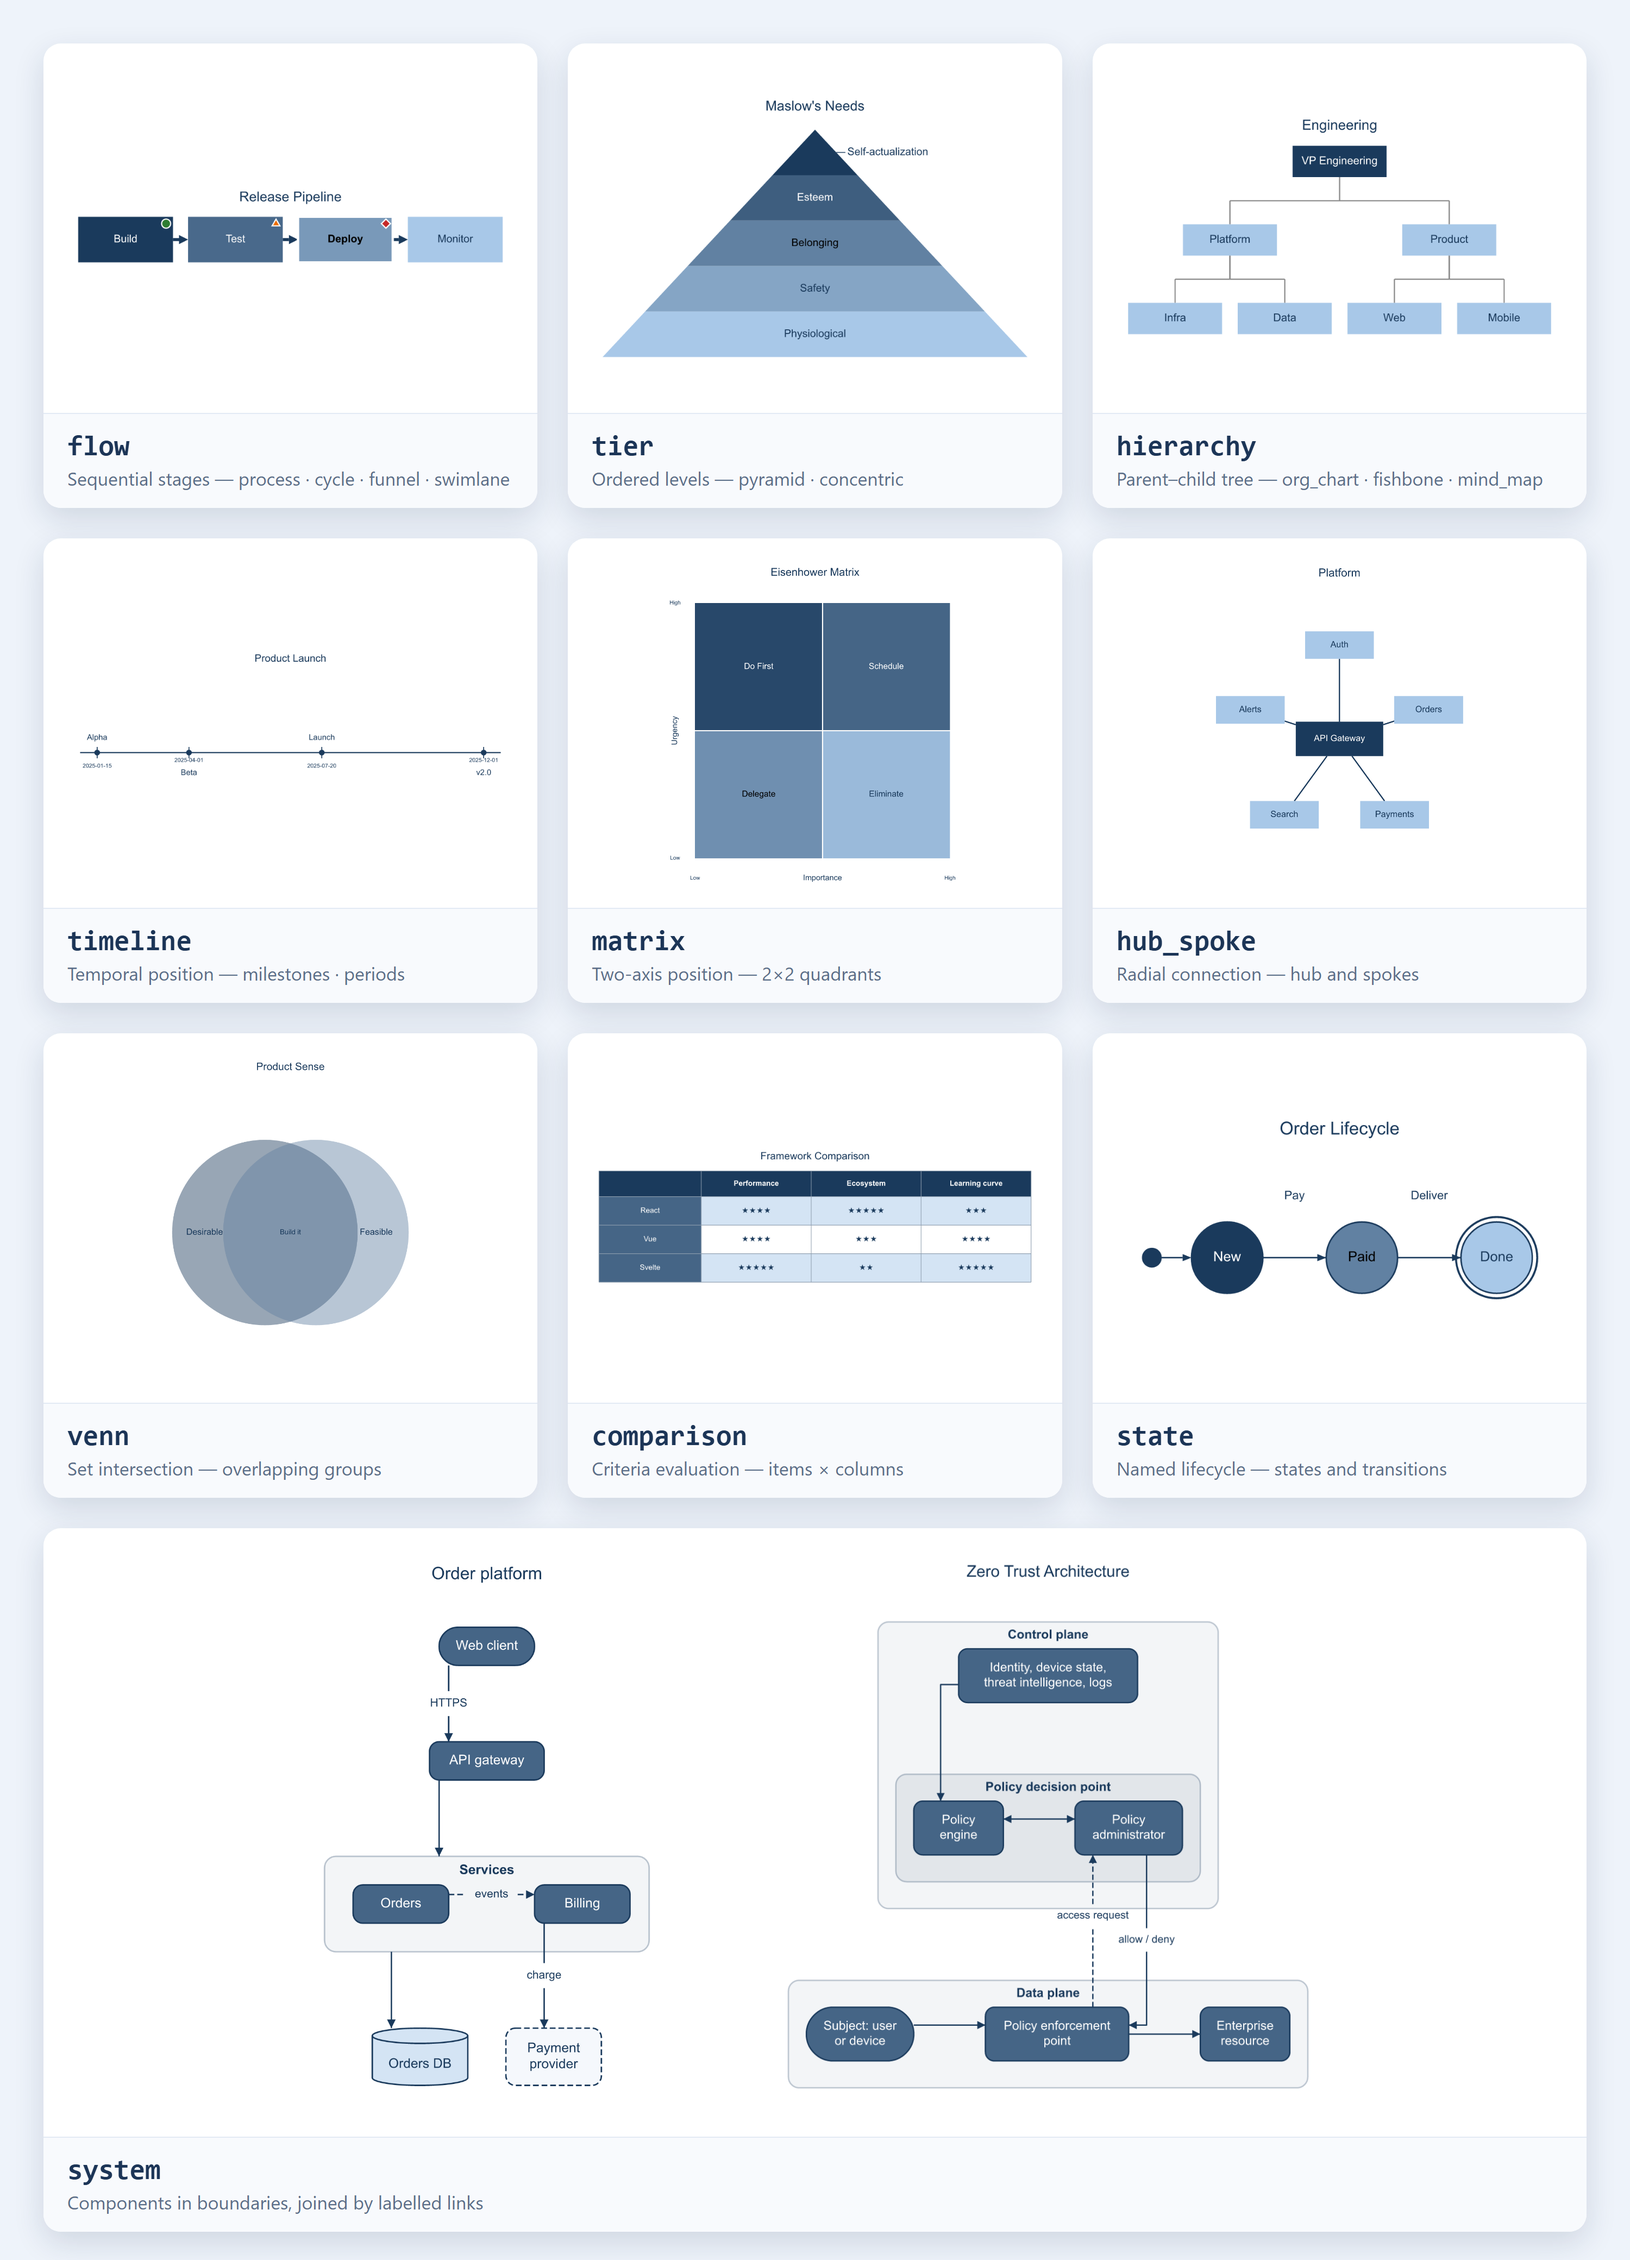
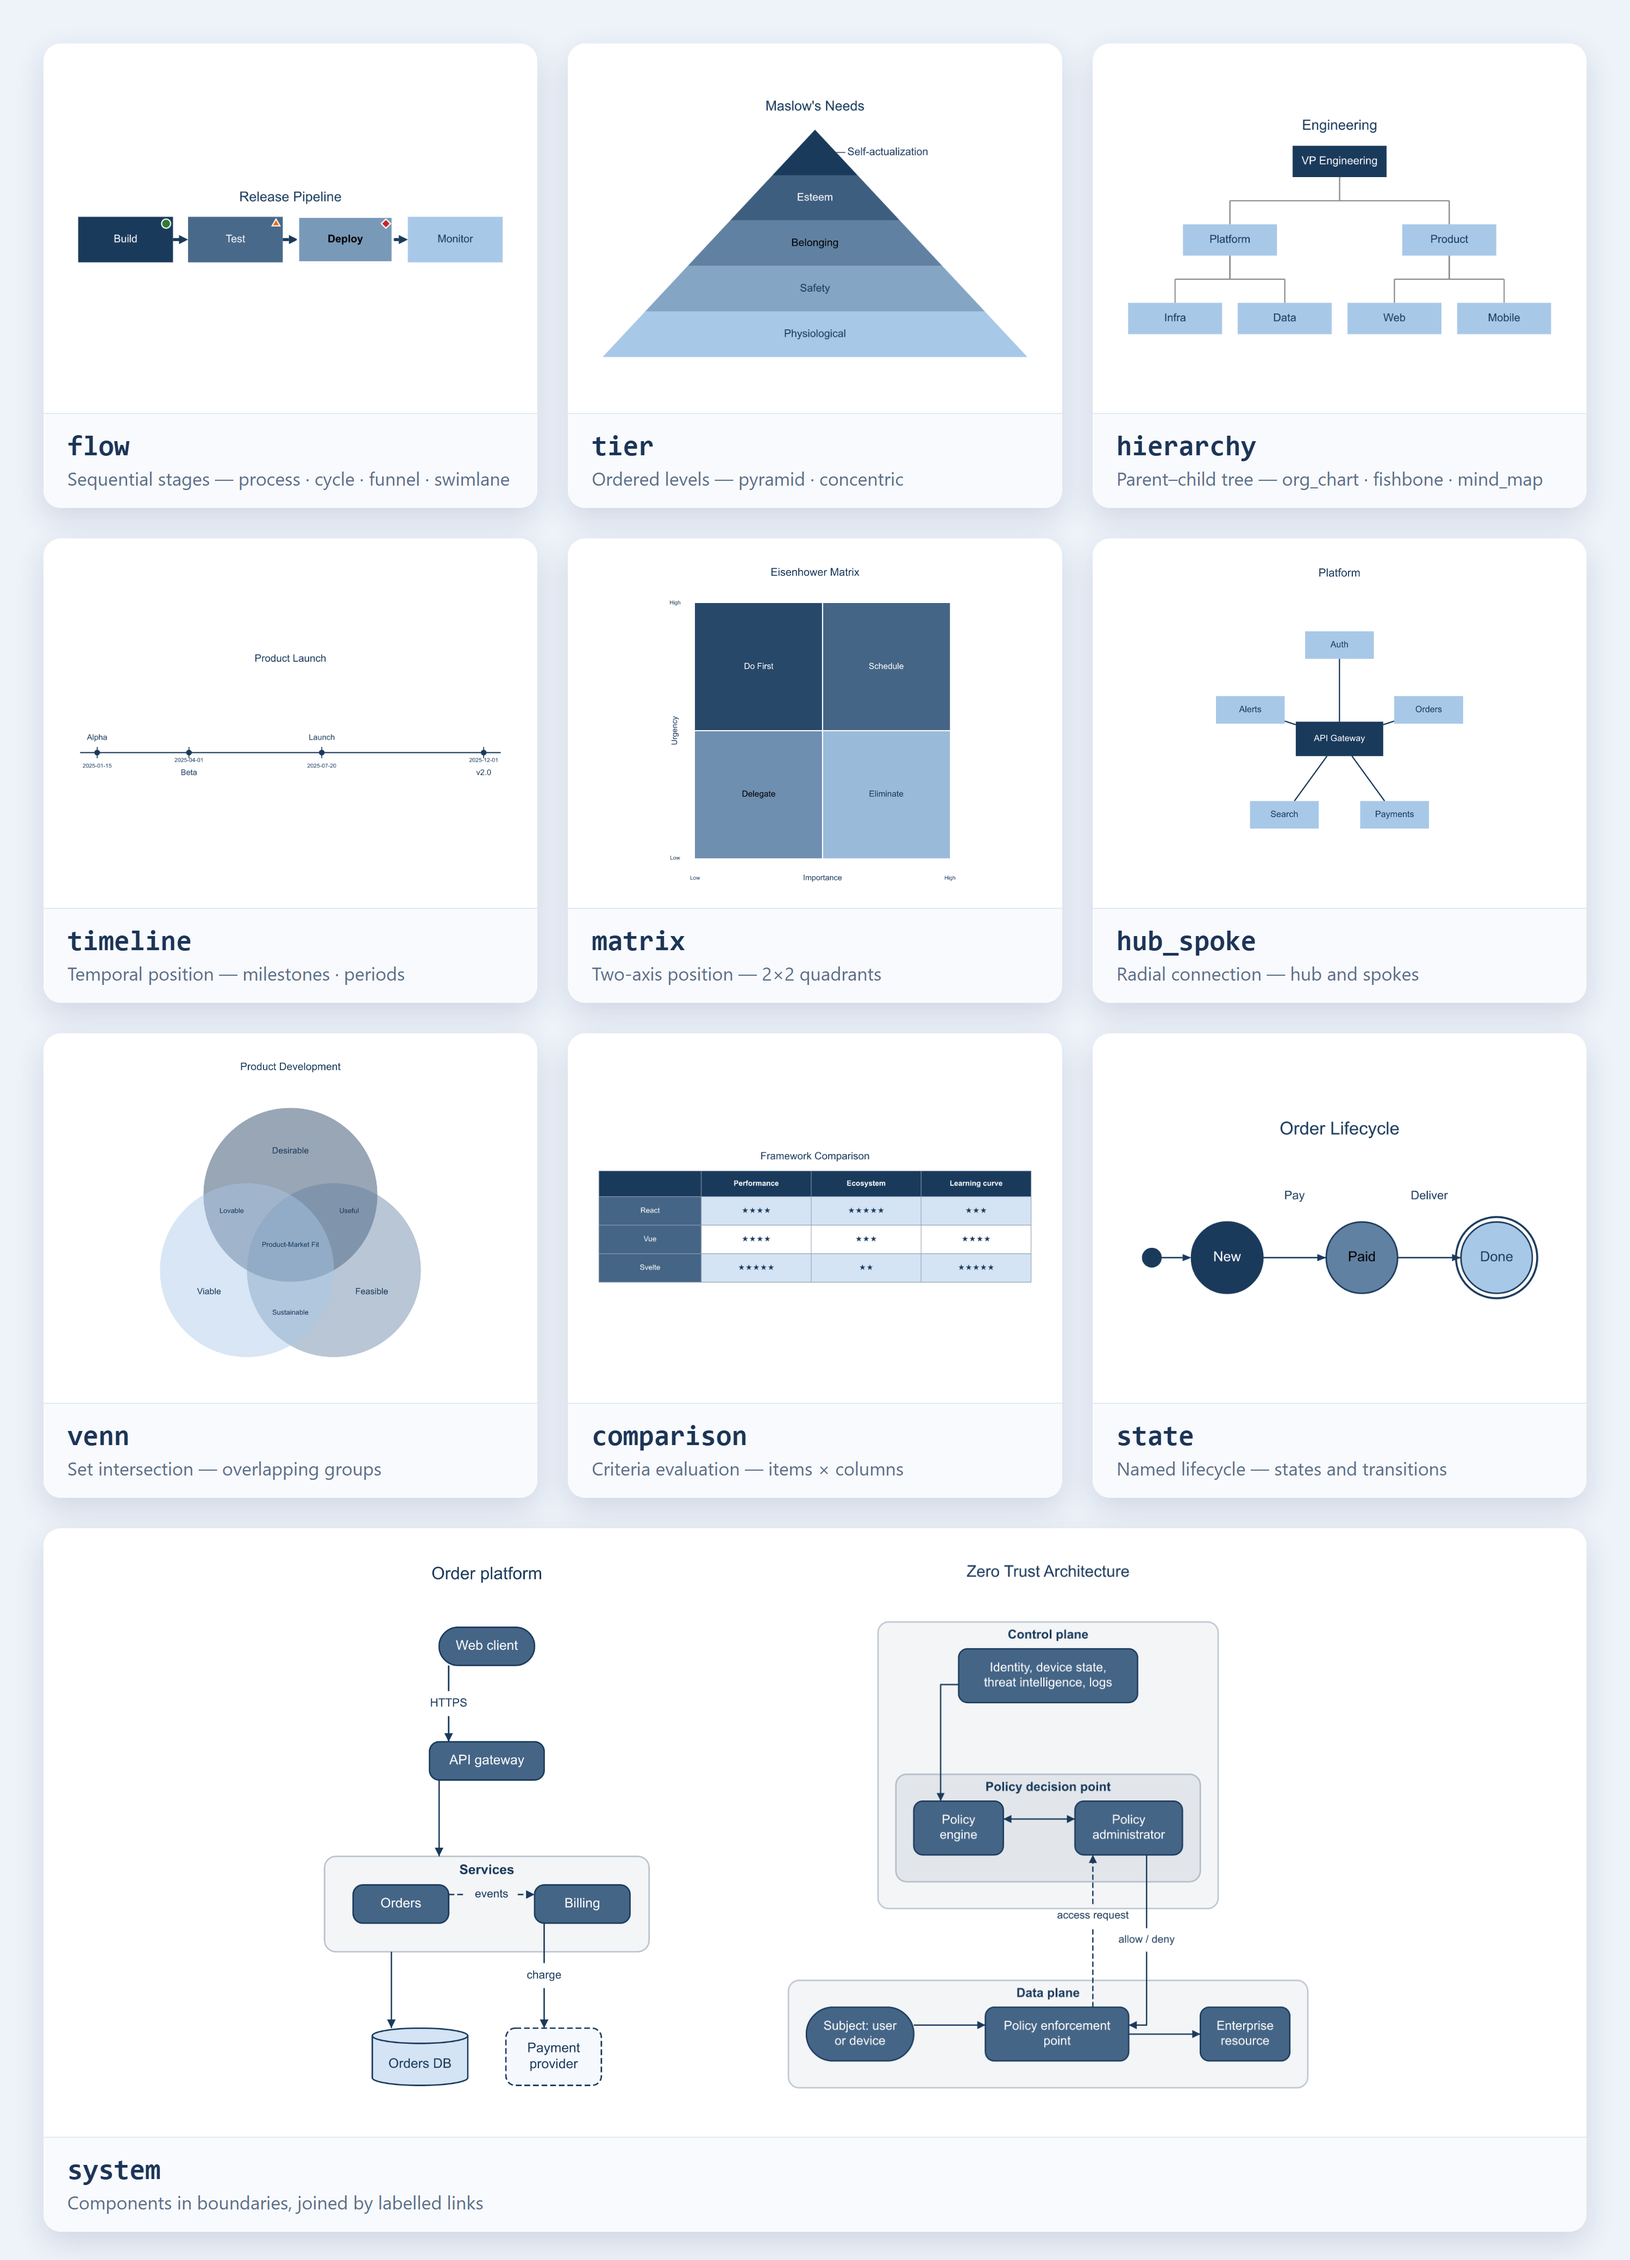
venn: give three-set diagrams a region for every label
With three sets the circles overlapped so far that the regions covered by only two circles all but vanished, and every intersection label was drawn near the middle on top of the others. Each circle's edge now passes through the other two centers, and every label sits inside the region it names. The README gallery shows a three-set diagram.

Changed region(s): [[0.093, 0.4688, 0.279, 0.625]]

diff --git a/crates/declart-core/src/render/venn.rs b/crates/declart-core/src/render/venn.rs
@@ -9,6 +9,14 @@ const SET_LABEL_SIZE: f32 = 15.0;
 const INTERSECTION_LABEL_SIZE: f32 = 12.0;
 const CIRCLE_OPACITY: f32 = 0.45;
 
+/// Center spacing of a three-set diagram, in radii.
+const TRIPLE_SPACING: f32 = 1.0;
+/// How far from the diagram center the label of a set's own region sits, in radii.
+const SET_LABEL_REACH: f32 = 1.08;
+/// How far from the diagram center the label of a two-set overlap sits, in radii, on the side
+/// away from the third circle.
+const PAIR_LABEL_REACH: f32 = 0.78;
+
 pub fn render(diagram: &VennDiagram, theme: &Theme) -> String {
     let n = diagram.sets.len();
     let title_h = if diagram.title.is_some() {
@@ -19,7 +27,7 @@ pub fn render(diagram: &VennDiagram, theme: &Theme) -> String {
     let canvas_w = CANVAS_SIZE;
     let canvas_h = CANVAS_SIZE + title_h;
     let cx = canvas_w / 2.0;
-    let cy = title_h + CANVAS_SIZE / 2.0;
+    let mut cy = title_h + CANVAS_SIZE / 2.0;
 
     let mut builder = SvgBuilder::new(canvas_w, canvas_h);
 
@@ -34,7 +42,16 @@ pub fn render(diagram: &VennDiagram, theme: &Theme) -> String {
     }
 
     let r = if n == 2 { 160.0_f32 } else { 150.0_f32 };
-    let overlap = r * 0.55; // distance between circle centers
+    // Distance between circle centers. Two sets overlap broadly; three sets sit on a triangle
+    // whose sides equal the radius, so each circle passes through the other two's centers and
+    // every one of the seven regions is big enough to hold a label.
+    let overlap = if n == 2 { r * 0.55 } else { r * TRIPLE_SPACING };
+
+    if n == 3 {
+        // The triangle is taller above its center than below; center the whole figure.
+        let tri_r = r * TRIPLE_SPACING / 3.0_f32.sqrt();
+        cy += ((tri_r + r) - (tri_r / 2.0 + r)) / 2.0;
+    }
 
     // Circle centers
     let centers: Vec<(f32, f32)> = match n {
@@ -65,13 +82,29 @@ pub fn render(diagram: &VennDiagram, theme: &Theme) -> String {
         builder.circle(*ccx, *ccy, r, &color.to_hex(), CIRCLE_OPACITY);
     }
 
-    // Set labels — positioned toward the outer edge (away from center)
+    // Unit vector from the diagram center toward each circle's center.
+    let outward: Vec<(f32, f32)> = centers
+        .iter()
+        .map(|(ccx, ccy)| {
+            let (dx, dy) = (ccx - cx, ccy - cy);
+            let len = (dx * dx + dy * dy).sqrt().max(1.0);
+            (dx / len, dy / len)
+        })
+        .collect();
+
+    // Set labels — in the part of a circle that no other circle covers.
     for (i, (ccx, ccy)) in centers.iter().enumerate() {
-        let dx = ccx - cx;
-        let dy = ccy - cy;
-        let len = (dx * dx + dy * dy).sqrt().max(1.0);
-        let label_x = ccx + (dx / len) * (r * 0.65);
-        let label_y = ccy + (dy / len) * (r * 0.65);
+        let (label_x, label_y) = if n == 3 {
+            (
+                cx + outward[i].0 * r * SET_LABEL_REACH,
+                cy + outward[i].1 * r * SET_LABEL_REACH,
+            )
+        } else {
+            (
+                ccx + outward[i].0 * (r * 0.65),
+                ccy + outward[i].1 * (r * 0.65),
+            )
+        };
 
         builder.text(
             label_x,
@@ -94,13 +127,23 @@ pub fn render(diagram: &VennDiagram, theme: &Theme) -> String {
             continue;
         }
 
-        // Position: centroid of the relevant circle centers, pulled toward diagram center
-        let lx = relevant.iter().map(|&i| centers[i].0).sum::<f32>() / relevant.len() as f32;
-        let ly = relevant.iter().map(|&i| centers[i].1).sum::<f32>() / relevant.len() as f32;
-        // For 2-set intersection, pull toward diagram center a bit
-        let pull = if relevant.len() == 2 { 0.3 } else { 0.0 };
-        let lx = lx + (cx - lx) * pull;
-        let ly = ly + (cy - ly) * pull;
+        let (lx, ly) = if n == 3 && relevant.len() == 2 {
+            // The region lying in both circles and outside the third: on the axis from the
+            // diagram center away from the third circle.
+            let third = (0..3).find(|i| !relevant.contains(i)).unwrap_or(0);
+            (
+                cx - outward[third].0 * r * PAIR_LABEL_REACH,
+                cy - outward[third].1 * r * PAIR_LABEL_REACH,
+            )
+        } else if n == 3 {
+            // Covered by every circle: the diagram center.
+            (cx, cy)
+        } else {
+            // Two sets: the middle of the lens.
+            let lx = relevant.iter().map(|&i| centers[i].0).sum::<f32>() / relevant.len() as f32;
+            let ly = relevant.iter().map(|&i| centers[i].1).sum::<f32>() / relevant.len() as f32;
+            (lx, ly)
+        };
 
         let available = r * 0.7;
         let mut fs = INTERSECTION_LABEL_SIZE;
@@ -182,5 +225,85 @@ mod tests {
         let svg = render(&d, &DEFAULT_THEME);
         let count = svg.matches("<circle").count();
         assert_eq!(count, 3);
+    }
+
+    /// Numeric value of `name="…"` in a tag.
+    fn attr(tag: &str, name: &str) -> f32 {
+        let key = format!("{name}=\"");
+        let start = tag.find(&key).expect("attribute") + key.len();
+        let end = tag[start..].find('"').unwrap();
+        tag[start..start + end].parse().unwrap()
+    }
+
+    /// Which circles (by index) cover the point where the text `label` is drawn.
+    fn circles_covering(svg: &str, label: &str) -> Vec<usize> {
+        let circles: Vec<(f32, f32, f32)> = svg
+            .split("<circle")
+            .skip(1)
+            .map(|c| (attr(c, "cx"), attr(c, "cy"), attr(c, "r")))
+            .collect();
+        let tag = svg
+            .split("<text")
+            .find(|t| t.contains(&format!(">{label}</text>")))
+            .expect("label drawn");
+        let (x, y) = (attr(tag, "x"), attr(tag, "y"));
+        circles
+            .iter()
+            .enumerate()
+            .filter(|(_, (cx, cy, r))| (x - cx).hypot(y - cy) < *r)
+            .map(|(i, _)| i)
+            .collect()
+    }
+
+    #[test]
+    fn three_set_labels_sit_in_their_own_regions() {
+        let set = |l: &str| VennSet { label: l.into() };
+        let hit = |names: &[&str], label: &str| VennIntersection {
+            sets: names.iter().map(|n| n.to_string()).collect(),
+            label: label.into(),
+        };
+        let d = VennDiagram {
+            title: None,
+            sets: vec![set("Frontend"), set("Backend"), set("DevOps")],
+            intersections: vec![
+                hit(&["Frontend", "Backend"], "APIs"),
+                hit(&["Backend", "DevOps"], "Infra"),
+                hit(&["Frontend", "DevOps"], "CI/CD"),
+                hit(&["Frontend", "Backend", "DevOps"], "Full-Stack"),
+            ],
+        };
+        let svg = render(&d, &DEFAULT_THEME);
+        // A set's own label is covered by that circle alone; an overlap by exactly its circles.
+        assert_eq!(circles_covering(&svg, "Frontend"), vec![0]);
+        assert_eq!(circles_covering(&svg, "Backend"), vec![1]);
+        assert_eq!(circles_covering(&svg, "DevOps"), vec![2]);
+        assert_eq!(circles_covering(&svg, "APIs"), vec![0, 1]);
+        assert_eq!(circles_covering(&svg, "Infra"), vec![1, 2]);
+        assert_eq!(circles_covering(&svg, "CI/CD"), vec![0, 2]);
+        assert_eq!(circles_covering(&svg, "Full-Stack"), vec![0, 1, 2]);
+    }
+
+    #[test]
+    fn three_set_figure_stays_inside_the_canvas() {
+        let d = VennDiagram {
+            title: Some("T".into()),
+            sets: ["X", "Y", "Z"]
+                .iter()
+                .map(|l| VennSet {
+                    label: l.to_string(),
+                })
+                .collect(),
+            intersections: vec![],
+        };
+        let svg = render(&d, &DEFAULT_THEME);
+        let height = attr(svg.split("<svg").nth(1).unwrap(), "height");
+        for c in svg.split("<circle").skip(1) {
+            let (cx, cy, r) = (attr(c, "cx"), attr(c, "cy"), attr(c, "r"));
+            assert!(cx - r >= 0.0 && cx + r <= CANVAS_SIZE, "x out of canvas");
+            assert!(
+                cy - r >= TITLE_AREA - 10.0 && cy + r <= height,
+                "y out of canvas"
+            );
+        }
     }
 }

diff --git a/CHANGELOG.md b/CHANGELOG.md
@@ -2,6 +2,7 @@
 
 ## Unreleased
 
+- **`venn` with three sets lays out its regions**: the three circles overlapped so much that the regions covered by only two of them all but vanished, and every intersection label was drawn near the middle on top of the others (`APIs`, `Infra`, `CI/CD` and `Full-Stack` ran together). The circles now sit with each one's edge through the other two's centers, a set's name is drawn in the part only that circle covers, a two-set intersection label in the part only those two cover, and the three-way label in the middle. Two-set diagrams are unchanged.
 - **A very long label no longer costs seconds**: fitting a label into its box was more than linear in the label's length — a 15,000-character label took about five seconds to render in every kind. Only the first 300 characters of a label are looked at now; a longer one is cut there with "…" and reported as `label_truncated`, as a label that does not fit its box already was. Rendering time no longer depends on the label's length. Labels of up to 300 characters render exactly as before.
 
 ## v0.23.0
